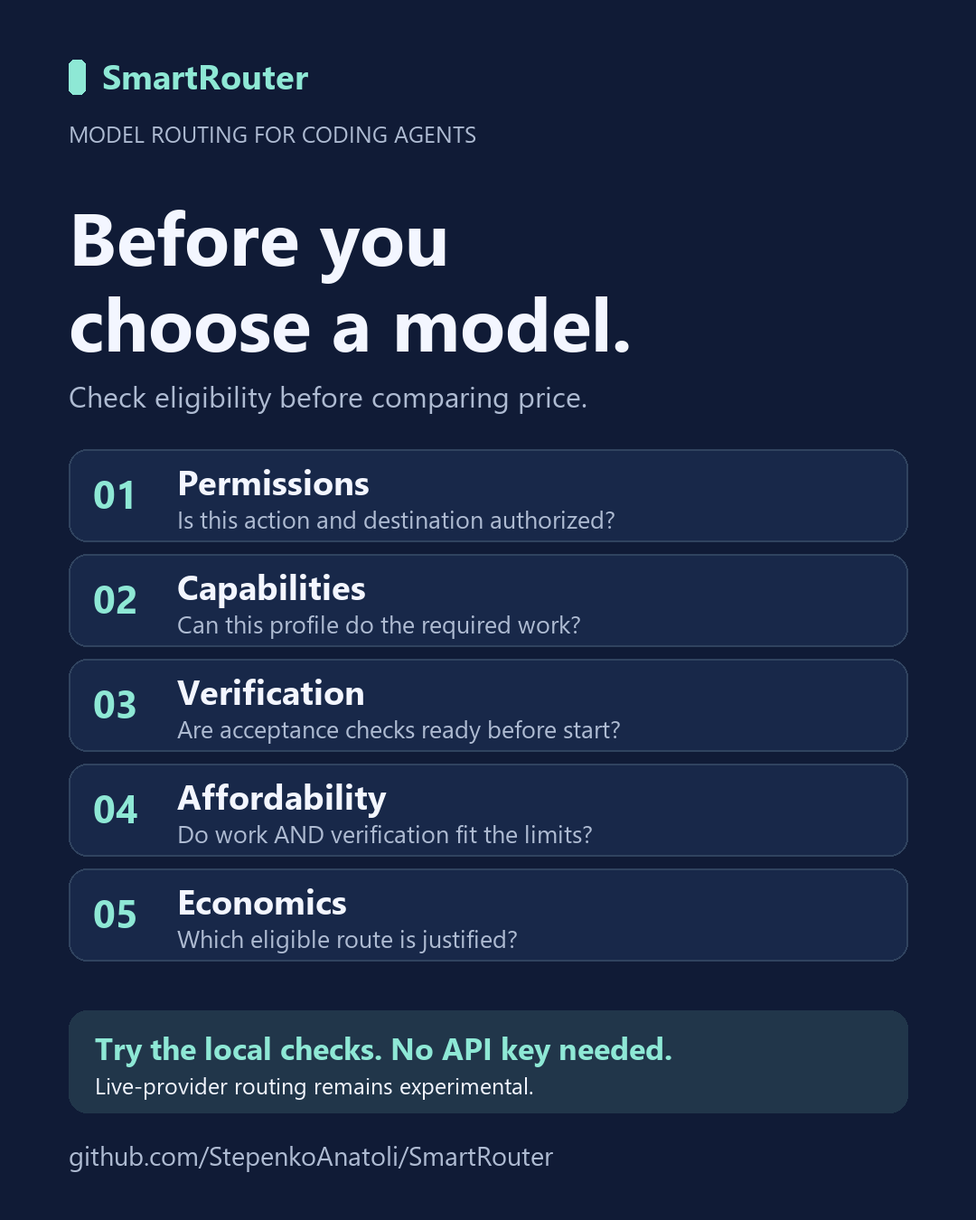
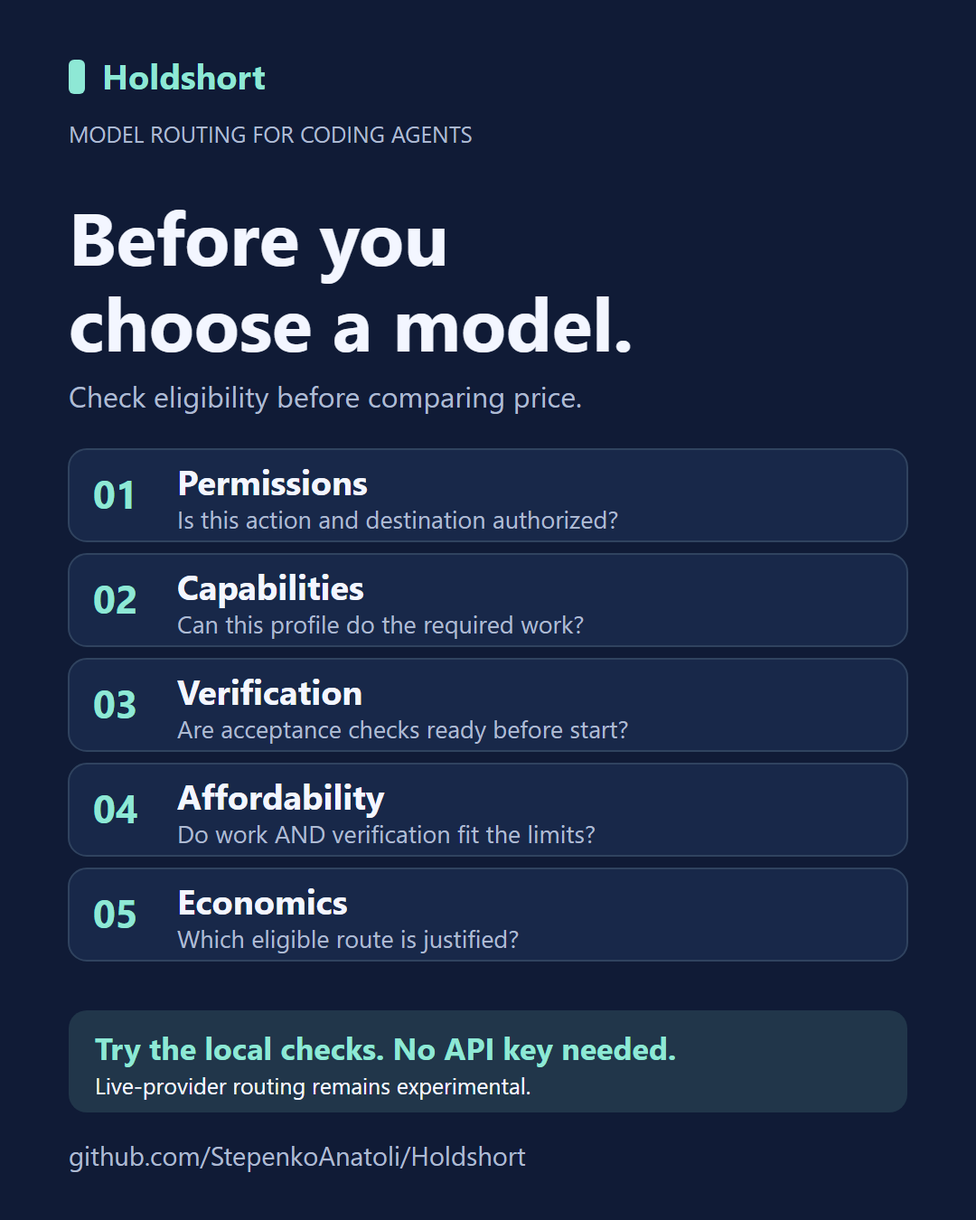
rename follow-up: a missed migration fails loudly, and facts about things that still carry the old name keep it (ADR-0003)
What changed:
- tools/check_credential_hygiene.py and tools/check_custody_acl.py fail closed while ~/.secrets/smart-router
  exists. Before, a machine that had not moved its custody folder was reported clean / N/A while its keys sat
  unchecked. The old folder is detected, never read. Tests C19 and L15.
- hosts/claude-code/route.mjs: validatePolicy refuses a policy after revision 5 that still names its upstream
  block smartrouter, instead of every decision binding holdshort: null. The archived host-policy-1..5 keep the
  old key and still load. New test at the end of route.test.mjs.
- Restored as they were on main, because they name things that exist under the old name: two paths inside
  other projects' URLs (docs/ROUTER_SURVEY.md), the published release asset names (docs/PROJECT_COMPLETION.md,
  docs/HANDOFF_MOONZILA.md) and the zip's contents in the handoff, the copy of the published v1.0.1 release
  body (tools/release/RELEASE_NOTES_v1.0.1.md, byte-identical to main again), two git branch names, a path
  pinned to fbe7bca (route.test.mjs line 2) and a path quoted from a brief (hosts/claude-code/README.md).
- docs/assets/social: the two PNGs re-exported from their renamed SVGs (1080 x 1350); the video cannot be
  re-rendered here, so its README and storyboard say it still shows the old name.
- hosts/README.md and ADR-0003: hosts/claude-code/ "was copied from" MoonAliza's folder and differs since the
[…]

diff --git a/tools/check_credential_hygiene.py b/tools/check_credential_hygiene.py
@@ -82,6 +82,9 @@ BASELINE_DEFAULT = TOOLS / "credential_hygiene_baseline.json"
 GH_CONFIG_ENV = "GH_CONFIG_DIR"
 CREDENTIALS_FILE_NAME = ".git-credentials"
 SECRETS_DIR_NAME = ".secrets/holdshort"
+# ADR-0003: the custody folder's name before the rename. A machine that still has it has not
+# migrated, and its keys would sit outside this check, so its presence fails closed. Never read.
+LEGACY_SECRETS_DIR_NAME = ".secrets/smart-router"
 
 # Helpers that read from a store this check can see. Matching is by the family name a
 # helper is written as (`manager`, a path to git-credential-manager, `!`-commands, ...).
@@ -405,6 +408,16 @@ def resolve_secrets_dir(override: Path | None) -> Path | None:
     return home / SECRETS_DIR_NAME
 
 
+def refuse_legacy_secrets_dir(home: Path | None) -> None:
+    """Fail closed while <home>/.secrets/smart-router exists (ADR-0003). Nothing in it is read."""
+    if home is None:
+        return
+    legacy = home / LEGACY_SECRETS_DIR_NAME
+    if legacy.exists():
+        raise FailClosed(f"legacy custody folder {legacy} is present; move it to "
+                         f"{home / SECRETS_DIR_NAME} (ADR-0003, CHANGELOG migration)")
+
+
 def plaintext_names(secrets_dir: Path | None) -> tuple[list[str], str]:
     """Top-level entry names under the secrets dir. Contents are NEVER read.
 
@@ -611,6 +624,8 @@ def inspect(store_path: Path | None = None, gh_config_override: Path | None = No
     if config is None:
         config = config_entries(git_env())
     secrets_path = secrets_dir if secrets_dir is not None else resolve_secrets_dir(None)
+    if secrets_dir is None:
+        refuse_legacy_secrets_dir(home)
     secret_names, secrets_desc = plaintext_names(secrets_path)
     return (entries, store_desc, store_available, hosts, hosts_desc, creds, malformed,
             config, secret_names, secrets_desc)

diff --git a/tools/test_credential_hygiene.py b/tools/test_credential_hygiene.py
@@ -443,6 +443,27 @@ class CredentialHygiene(unittest.TestCase):
         self.assertEqual(r.returncode, 2, r.stdout + r.stderr)
         self.assertIn("FAIL-CLOSED", r.stderr)
 
+    # C19 ------------------------------------------------------------------
+    def test_c19_legacy_custody_folder_fails_closed_without_being_read(self):
+        # ADR-0003: keys left in the pre-rename folder must not pass as "no secrets dir"
+        fake = "FAKE-LEGACY-KEY-0123456789"
+        with tempfile.TemporaryDirectory() as td:
+            tmp = Path(td)
+            env = env_for(tmp)
+            legacy = tmp / "userhome" / ".secrets" / "smart-router"
+            legacy.mkdir(parents=True)
+            (legacy / "plain.key").write_text(fake, encoding="utf-8")
+            r = run_cli(tmp, env)
+            self.assertEqual(r.returncode, 2, r.stdout + r.stderr)
+            self.assertIn("FAIL-CLOSED", r.stderr)
+            self.assertIn("legacy custody folder", r.stderr)
+            self.assertNotIn(fake, r.stdout + r.stderr, "the legacy folder is detected, never read")
+            # after the CHANGELOG move the same machine is judged on the new folder
+            legacy.rename(legacy.parent / "holdshort")
+            moved = run_cli(tmp, env)
+        self.assertNotIn("legacy custody folder", moved.stdout + moved.stderr)
+        self.assertIn("plain.key", moved.stdout, moved.stdout + moved.stderr)
+
 
 if __name__ == "__main__":
     unittest.main(verbosity=2)

diff --git a/tools/test_custody_acl.py b/tools/test_custody_acl.py
@@ -280,6 +280,26 @@ class CustodyAcl(unittest.TestCase):
             three = run_cli("--acl-json", str(fixture))
         self.assertEqual(three.returncode, 3, three.stdout + three.stderr)
 
+    # L15 ------------------------------------------------------------------
+    def test_l15_legacy_custody_folder_fails_closed_not_na(self):
+        # ADR-0003: a machine that still has .secrets/smart-router has not migrated
+        with tempfile.TemporaryDirectory() as td:
+            secrets = Path(td) / ".secrets"
+            (secrets / "smart-router").mkdir(parents=True)
+            root = secrets / "holdshort"
+            with self.assertRaises(cca.FailClosed):
+                cca.na_reason(root, platform="nt")            # new root absent: not N/A
+            root.mkdir()
+            with self.assertRaises(cca.FailClosed):
+                cca.na_reason(root, platform="nt")            # both present: still refused
+            self.assertIn("N/A", cca.na_reason(root, platform="linux"))
+            r = run_cli("--root", str(root))
+            if os.name == "nt":
+                self.assertEqual(r.returncode, cca.FAIL_CLOSED, r.stdout + r.stderr)
+                self.assertIn("legacy custody folder", r.stderr)
+            (secrets / "smart-router").rmdir()
+            self.assertIsNone(cca.na_reason(root, platform="nt"))
+
 
 if __name__ == "__main__":
     unittest.main(verbosity=2)

diff --git a/tools/check_custody_acl.py b/tools/check_custody_acl.py
@@ -129,9 +129,16 @@ def default_root(env: dict | None = None) -> Path:
 
 
 def na_reason(root: Path, platform: str | None = None) -> str | None:
-    """None = verify now; otherwise the N/A reason. Surface absent is N/A, never a failure."""
+    """None = verify now; otherwise the N/A reason. Surface absent is N/A, never a failure.
+
+    ADR-0003: a pre-rename custody folder (smart-router) beside the root fails closed, present
+    or not: its keys would otherwise sit outside this audit. It is detected, never read."""
     if (platform or os.name) != "nt":
         return "N/A on this platform (the custody tree is a Windows-machine fact)"
+    legacy = root.parent / "smart-router"
+    if legacy.exists():
+        raise FailClosed(f"legacy custody folder {legacy} is present; move it to {root} "
+                         "(ADR-0003, CHANGELOG migration)")
     if not root.is_dir():
         return f"N/A — no custody root at {root} (nothing to verify on this machine)"
     return None

diff --git a/docs/ROUTER_SURVEY.md b/docs/ROUTER_SURVEY.md
@@ -132,7 +132,7 @@ Revision: [`a5452c544d8e5e12b87460eab18428fbe60f3ffa`](https://github.com/BlockR
 
 Revision: [`a2d90c470170acec1a468d066a685b9d14b83a60`](https://github.com/Magma-Devs/smart-router/tree/a2d90c470170acec1a468d066a685b9d14b83a60). Approximately 904 files / 462 discovered tests. This is blockchain RPC routing, not an LLM skill router. Inspected license combines PolyForm Noncommercial and Enterprise terms; commercial reuse requires appropriate authorization.
 
-[attempt_budget_callsite_test.go](https://github.com/Magma-Devs/smart-router/blob/a2d90c470170acec1a468d066a685b9d14b83a60/protocol/rpcholdshort/attempt_budget_callsite_test.go) exercises a real dispatcher with an upstream slower than an internal window but inside the total budget, asserting the caller passes the correct budget. A direct callee test could miss that regression. [eligibility.go](https://github.com/Magma-Devs/smart-router/blob/a2d90c470170acec1a468d066a685b9d14b83a60/protocol/relaypolicy/eligibility.go) is a wrapper around common eligibility, not proof of an LLM semantic selector.
+[attempt_budget_callsite_test.go](https://github.com/Magma-Devs/smart-router/blob/a2d90c470170acec1a468d066a685b9d14b83a60/protocol/rpcsmartrouter/attempt_budget_callsite_test.go) exercises a real dispatcher with an upstream slower than an internal window but inside the total budget, asserting the caller passes the correct budget. A direct callee test could miss that regression. [eligibility.go](https://github.com/Magma-Devs/smart-router/blob/a2d90c470170acec1a468d066a685b9d14b83a60/protocol/relaypolicy/eligibility.go) is a wrapper around common eligibility, not proof of an LLM semantic selector.
 
 **Use:** callsite budget/deadline tests with controlled clocks and adverse timing. **Avoid:** blockchain relay hedging/quorum/transaction fanout as LLM replay policy, irrelevant infrastructure, noncommercial code copying for commercial use.
 
@@ -142,7 +142,7 @@ Revision: [`034daabaac5038bfc5f0a5c54a30df59baaffb3a`](https://github.com/ginson
 
 [Retry design](https://github.com/ginsonko/newapi-smart-router/blob/034daabaac5038bfc5f0a5c54a30df59baaffb3a/parts/algorithms/retry/README.md) separates transport/protocol/business contracts, committed semantic streams, acceptance ambiguity, replay class, deadlines and attempts. [Outcome golden vectors](https://github.com/ginsonko/newapi-smart-router/blob/034daabaac5038bfc5f0a5c54a30df59baaffb3a/parts/conformance/golden-vectors/outcome-v1.json) cover valid tool calls, pseudo-200 errors, committed streams, unknown video acceptance, capacity 429 and side-effecting unknown dispatch. Static vectors are not live success claims.
 
-[planner.go](https://github.com/ginsonko/newapi-smart-router/blob/034daabaac5038bfc5f0a5c54a30df59baaffb3a/core/holdshort/planner.go) exposes no-price/no-candidate/attempt-budget outcomes, capability/replay fingerprints and snapshot/commit rules. [cache_economy.go](https://github.com/ginsonko/newapi-smart-router/blob/034daabaac5038bfc5f0a5c54a30df59baaffb3a/core/holdshort/cache_economy.go) scores only after eligibility with bounded snapshot/horizon/sample/confidence/drift guards; specific namespace/session warm evidence matters, not generic hit-rate optimism. Numeric defaults are not transferable Holdshort tolerances.
+[planner.go](https://github.com/ginsonko/newapi-smart-router/blob/034daabaac5038bfc5f0a5c54a30df59baaffb3a/core/smartrouter/planner.go) exposes no-price/no-candidate/attempt-budget outcomes, capability/replay fingerprints and snapshot/commit rules. [cache_economy.go](https://github.com/ginsonko/newapi-smart-router/blob/034daabaac5038bfc5f0a5c54a30df59baaffb3a/core/smartrouter/cache_economy.go) scores only after eligibility with bounded snapshot/horizon/sample/confidence/drift guards; specific namespace/session warm evidence matters, not generic hit-rate optimism. Numeric defaults are not transferable Holdshort tolerances.
 
 [Route receipt schema](https://github.com/ginsonko/newapi-smart-router/blob/034daabaac5038bfc5f0a5c54a30df59baaffb3a/parts/spec/route-receipt.schema.json) describes versions/attempt/reservation/settlement/reconciliation/operator review. Borrow the conceptual need for a small secret-free receipt, not the gateway or whole schema.
 

diff --git a/docs/PROJECT_COMPLETION.md b/docs/PROJECT_COMPLETION.md
@@ -86,7 +86,7 @@ strict-P02 countersignature is [docs/P02_REVIEWER_DESIGNATION.md](docs/P02_REVIE
 | Tag object SHA | `3aae815b5566e23b91da64df501c1df6a24ad2d2` |
 | GitHub Release id | `408947843` |
 | Release URL | https://github.com/StepenkoAnatoli/Holdshort/releases/tag/v1.0.0-pilot |
-| Release asset | `Holdshort-v1.0.0-pilot.zip` — 90,260 bytes, 31 entries, SHA-1 `920007b8af24a3fc02430257fbe39ad37d5f47ec` |
+| Release asset | `SmartRouter-v1.0.0-pilot.zip` — 90,260 bytes, 31 entries, SHA-1 `920007b8af24a3fc02430257fbe39ad37d5f47ec` |
 | Release notes body length | 2215 characters (contents table + verification basis + gates-preserved section) |
 | Draft / prerelease | `false` / `false` (a real release, publicly visible) |
 | In-repo content commits after the tag | `23a9ef0` (packet), `2f4b141` (completion), `1d3b9b6` (zip), `55713f3` (prices verified), `badeb03` (audit), `c0337c8` (arm matrix / walkthrough), `8a085a6` (row-4 pre-fill), `8526af7` (reviewer record), `8a2c08c` (rate re-verify), `6d46481` (record freshness) — **none change skill semantics**; the released artefacts' behavior is what was tagged. |
@@ -101,7 +101,7 @@ strict-P02 countersignature is [docs/P02_REVIEWER_DESIGNATION.md](docs/P02_REVIE
 | Tag object SHA | `fbe2a4c7ec4844fc29668d294b75206b0d2e36c4` |
 | GitHub Release id | `409546770` |
 | Release URL | https://github.com/StepenkoAnatoli/Holdshort/releases/tag/v1.0.1 |
-| Release asset | `Holdshort-v1.0.1.zip` — 217,751 bytes, 75 entries, SHA-1 `aafcc9288261e9691ec7b9ae26120f35ba9d29b8` (historically committed in `cdcec77`, merged via PR #14 `9508c97`; blob id `b988f89f58f274c540b964d28c096c13726af15a`) |
+| Release asset | `SmartRouter-v1.0.1.zip` — 217,751 bytes, 75 entries, SHA-1 `aafcc9288261e9691ec7b9ae26120f35ba9d29b8` (historically committed in `cdcec77`, merged via PR #14 `9508c97`; blob id `b988f89f58f274c540b964d28c096c13726af15a`) |
 | Release notes body length | 5,999 bytes / 5,960 characters (base-release pointer + enforcement-hardening story + four-protection-layer annex; same content as [tools/release/RELEASE_NOTES_v1.0.1.md](../tools/release/RELEASE_NOTES_v1.0.1.md), modulo EOL) |
 | Draft / prerelease | `false` / `false` (a real release, publicly visible) |
 | In-repo content commits after the tag | `abe79d8` (strict-protection merge test), `03d629f` (PR #15 merge), `7af6975` (revert), `b143654` (PR #16 merge) — **test-and-revert cycle only, zero net content change** (README byte-identical pre/post); skills semantics unchanged. Stale-base refusal cycle: `edc782f` (marker, PR #19 head — `README.md` +2), `35d36ca` (refresh — `main` @ `931d4ad` merged into the head), `3e2c283` (PR #19 merge), `ef2aff1` (revert, PR #21), `c62c487` (PR #21 merge) — **test-and-revert cycle only, zero net content change**: `main`'s tree is identical at `931d4ad` and `c62c487` (`e486c57fd2dc`), so the cycle left nothing behind. Refusal evidence, as recorded in PR #21's body at the time: the head was `clean` with a green `regression-gate` at `40debd7`; when PR #20 moved `main` to `931d4ad` the PR flipped to `behind` and the merge API refused with **405 `Required status check "regression-gate" is expected`** despite that green check; `update-branch` refreshed the head to `35d36ca`, run `38166333242` re-ran the gate (success), and the merge was then accepted. The tag's packaging commit `cdcec77` itself is the point-in-time snapshot of record. Apart from that cycle, post-`b143654` merges are docs-only (PR #17 strict-provenance/release docs, PR #18 onboarding-proof evidence row, PR #20 post-tag provenance note, PR #22 Moonzila advisory note, PR #23 onboarding-proof run list); skills semantics remain unchanged since the tag. |

diff --git a/docs/adr/0003-rename-to-holdshort.md b/docs/adr/0003-rename-to-holdshort.md
@@ -32,7 +32,10 @@ files, change all files that says: smart router into Holdshort as suggested".
    `HOLDSHORT_BRIEF.json`, the custody folder is `~/.secrets/holdshort`, the skills are `holdshort`,
    `holdshort-review` and `holdshort-eval-prep`, the host policy's upstream block and the decision field
    written by `hosts/claude-code/route.mjs` are `holdshort`, and the canary's User-Agent and temporary
-   prefixes use the new name. Nothing reads the old names any more.
+   prefixes use the new name. Nothing reads the old names any more. Two checks make a missed migration loud
+   instead of silent; they detect the old names and never read through them: the custody checks
+   (`tools/check_credential_hygiene.py`, `tools/check_custody_acl.py`) fail closed while `~/.secrets/smart-router`
+   exists, and `route.mjs` refuses a policy after revision 5 that still names its upstream block `smartrouter`.
 4. **Kept as written**, because changing them would make a record false or point at something that does
    not exist:
    - `hosts/claude-code/trace/**`: the host's real ledger (decisions with Brief fingerprints, usage,
@@ -44,8 +47,17 @@ files, change all files that says: smart router into Holdshort as suggested".
      evidence refers to it.
    - Other projects' names: `BJFinancial/Smart-router` (and `src/smart_router/` inside its URLs),
      `beettlle/pi-smart-router`, `Magma-Devs/smart-router`, `ginsonko/newapi-smart-router`.
-   - MoonAliza's folder `docs/orchestration/smartrouter/`. It is the host's real path, and
-     `hosts/claude-code/` is a copy of it.
+   - MoonAliza's folder `docs/orchestration/smartrouter/`. It is the host's real path;
+     `hosts/claude-code/` was copied from it and differs from it since this rename.
+   - Facts about things that exist under the old name outside this tree: paths inside other projects' URLs
+     (`protocol/rpcsmartrouter/`, `core/smartrouter/`), the published release assets
+     (`SmartRouter-v1.0.0-pilot.zip`, `SmartRouter-v1.0.1.zip`) and the zip's contents as the MoonAliza handoff
+     names them, the copy of the published v1.0.1 release body (`tools/release/RELEASE_NOTES_v1.0.1.md`), git
+     branch names (`docs/corrected-smartrouter-development-plan`, `skills/smart-router-v1`), paths pinned to a
+     commit before the rename (`tests/smart_router_decisions.py` at `fbe7bca`) and a path quoted from a brief
+     (`/home/user/smartrouter`).
+   - The social video `docs/assets/social/local-first-look.mp4` until it is re-rendered; the two social PNGs
+     were re-exported from their renamed sources.
    - One verbatim chat quote in `hosts/claude-code/README.md` ("focus on smartrouter for now").
 5. The GitHub repository is renamed `StepenkoAnatoli/Holdshort` when this change merges. GitHub
    redirects the old URLs until a new repository takes the old name.

diff --git a/tools/release/RELEASE_NOTES_v1.0.1.md b/tools/release/RELEASE_NOTES_v1.0.1.md
@@ -1,10 +1,10 @@
-# RELEASE_NOTES.md — Holdshort v1.0.1 (enforcement & docs refresh)
+# RELEASE_NOTES.md — SmartRouter v1.0.1 (enforcement & docs refresh)
 
-> **Base release:** [`v1.0.0-pilot`](https://github.com/StepenkoAnatoli/Holdshort/releases/tag/v1.0.0-pilot)
+> **Base release:** [`v1.0.0-pilot`](https://github.com/StepenkoAnatoli/SmartRouter/releases/tag/v1.0.0-pilot)
 > at commit `b6e04fd525fa886b07d149ab5a7f88da3f7b7c89`. This revision supersedes it on `main`
 > (tip: `f4d1522`) with enforcement, testing, and documentation upgrades. **No change to the
 > three executable skills' routing semantics** — the canonical policy content of
-> `skills/holdshort{,-review,-eval-prep}` is byte-identical in intent; what changed is
+> `skills/smart-router{,-review,-eval-prep}` is byte-identical in intent; what changed is
 > everything that enforces and proves the pipeline around them.
 
 ## What's new since v1.0.0-pilot
@@ -62,7 +62,7 @@
   `hook_wiring`, `validate_skills`, all test suites, `check_secrets` fail-closed).
 - Packaged-tree spot-checks executed in the staging directory before zipping:
   - `python tools/validate_skills.py` → exit 0 ("3 skills validated")
-  - `python tests/holdshort_decisions.py` → exit 0 (79 assertions / 52 fixtures)
+  - `python tests/smart_router_decisions.py` → exit 0 (79 assertions / 52 fixtures)
   - `python tools/check_secrets.py` → exit 0 (0 hits)
 - Asset built from the parity tree `f4d1522` (local main == origin/main at packaging time).
 - **Ships-nothing exclusions verified in the zip itself**: no `.env`, no ledger files, no
@@ -74,9 +74,9 @@
 | --- | --- |
 | `README.md` | Current phase-state ledger + the four-protection-layers story |
 | `CHANGELOG.md` | Chronological enforcement hardening narrative (hash-referenced) |
-| `skills/holdshort/` | Canonical five-gate routing policy (v1.0.0, unchanged semantics) |
-| `skills/holdshort-review/` | Blocker-focused reviewer procedure (v1.0.0) |
-| `skills/holdshort-eval-prep/` | Preregistration prep, no live spend (v1.0.0) |
+| `skills/smart-router/` | Canonical five-gate routing policy (v1.0.0, unchanged semantics) |
+| `skills/smart-router-review/` | Blocker-focused reviewer procedure (v1.0.0) |
+| `skills/smart-router-eval-prep/` | Preregistration prep, no live spend (v1.0.0) |
 | `tools/` | Full enforcement + dispatch + close toolchain (incl. new `check_hook_wiring.py`) |
 | `tests/`, `fixture_checks.py` | 79-assertion decision suite + smoke harness |
 | `docs/GO_LIVE_RUNBOOK.md` | Operational runbook for the first live pilot session |

diff --git a/CHANGELOG.md b/CHANGELOG.md
@@ -9,15 +9,23 @@
   - replace installed copies of the skills `smart-router`, `smart-router-review` and `smart-router-eval-prep` with
     `holdshort`, `holdshort-review` and `holdshort-eval-prep` (`defers-to: holdshort`);
   - hosts write the worker Brief as `HOLDSHORT_BRIEF.json`, not `SMARTROUTER_BRIEF.json`;
-  - move the credential custody folder `~/.secrets/smart-router` to `~/.secrets/holdshort`;
+  - move the credential custody folder `~/.secrets/smart-router` to `~/.secrets/holdshort`; until it moves,
+    `tools/check_credential_hygiene.py` and `tools/check_custody_acl.py` fail closed instead of reporting clean;
   - in a Claude Code host policy, rename the upstream block `smartrouter` to `holdshort`; new decision records carry
-    `holdshort`;
+    `holdshort`, and `route.mjs` refuses a policy after revision 5 that still carries `smartrouter`;
+  - decide again for any decision not yet dispatched: the Brief's text changed, so the pre-dispatch check refuses the
+    fingerprint recorded before the rename;
+  - delete `SMARTROUTER_BRIEF.json` from a worker worktree spawned before the rename before cleaning it up (cleanup
+    removes only `HOLDSHORT_BRIEF.json` and refuses a worktree with untracked files);
   - run the decision suite as `python tests/holdshort_decisions.py`.
 
   Kept as written: the host ledger `hosts/claude-code/trace/**`, `docs/evidence/**`, the frozen pool id
   `smartrouter-prospective-v1`, other projects' names (`BJFinancial/Smart-router`, `beettlle/pi-smart-router`,
-  `Magma-Devs/smart-router`, `ginsonko/newapi-smart-router`), MoonAliza's folder `docs/orchestration/smartrouter/` and
-  one verbatim chat quote.
+  `Magma-Devs/smart-router`, `ginsonko/newapi-smart-router`) and paths inside their URLs, MoonAliza's folder
+  `docs/orchestration/smartrouter/`, facts about things that still carry the old name (the published release asset
+  names and the zip's contents, the copy of the published v1.0.1 release notes, git branch names, paths pinned to a
+  commit before the rename, a path quoted from a brief) and one verbatim chat quote. The social PNGs were re-exported;
+  the social video still shows the old name until it is re-rendered.
 - **The calibration gate checks run on a Windows host** (`tools/test_calibration_kit.py` and the tests of the evidence
   check and the qualification table). On Windows 17 of the kit's 79 tests failed, so the pre-commit hook refused every
   commit there: it read files in the locale's encoding, ran a bare `python3`, wrote a Windows path into a git config

diff --git a/docs/HANDOFF_MOONZILA.md b/docs/HANDOFF_MOONZILA.md
@@ -6,9 +6,12 @@
 
 ## Release
 
+> The project was renamed Holdshort on 2026-10-20 (ADR-0003). This release and its zip keep the
+> old names: the asset file, the `smart-router` skill and `tests/smart_router_decisions.py`.
+
 - **Tag:** `v1.0.0-pilot` (annotated, at `b6e04fd`)
 - **Release page:** https://github.com/StepenkoAnatoli/Holdshort/releases/tag/v1.0.0-pilot
-- **Asset:** https://github.com/StepenkoAnatoli/Holdshort/releases/download/v1.0.0-pilot/Holdshort-v1.0.0-pilot.zip
+- **Asset:** https://github.com/StepenkoAnatoli/Holdshort/releases/download/v1.0.0-pilot/SmartRouter-v1.0.0-pilot.zip
   (90,260 bytes, 31 entries, MIT; contains the validated `skills/` tree, the 79-assertion decision
   suite, the sidecar helper, the hardened validator, and all canonical docs)
 - **Quickstart verified from a clean unpack** — all four commands exit 0 (see `RELEASE_NOTES.md` in the zip)
@@ -18,7 +21,7 @@
 - `docs/MOONZILA_ADVISORY_UI.md` — the Phase 6 "first advisory UI" design note (stored-preview
   display vs. generate-path separation, plan §13). It needs **your approval** before any Moonzila
   implementation work starts.
-- The `holdshort` skill — advisory-only by design; it **recommends** route decisions but never
+- The `smart-router` skill (now `holdshort`) — advisory-only by design; it **recommends** route decisions but never
   performs dispatch, spend, or model switching itself. All performative enforcement is Moonzila-side.
 
 ## Gate you own (per plan §13/§16 — not started in this project by design)
@@ -32,7 +35,7 @@
 
 The release zip contains everything needed to validate the skill tree on the Moonzila host
 without any additional repo work — `tools/validate_skills.py` (supports `--strict`) and
-`tests/holdshort_decisions.py` (79 assertions / 52 fixture IDs, exit 0 expected) are both
+`tests/smart_router_decisions.py` (79 assertions / 52 fixture IDs, exit 0 expected) are both
 pre-run and reported clean at `b6e04fd`.
 
 ## Contact / provenance

diff --git a/docs/DEVELOPMENT_PLAN.md b/docs/DEVELOPMENT_PLAN.md
@@ -399,7 +399,7 @@ Phase 1 closes only after independent `Approve` with no unresolved blocker or mi
 
 Closure is artifact-specific. `Specification corrected` means the rule/fixture now addresses the identified ambiguity and author checks were run; it does **not** mean non-author approval or future implementation acceptance. Any discovered remaining contradiction is a new blocking finding for the affected phase; do not assert exhaustive proof from presence/phrase checks. Publish unresolved external/future prerequisites explicitly, never disguise them as closed.
 
-Current delivery amends existing draft PR #2 on `docs/corrected-holdshort-development-plan`, preserving observed parent/concurrent changes, verifying expected head before publication and using non-force branch update. No new PR/main update/merge. Upload only owned planning documents and remove only the prior additions made in this thread; credential in memory/header only, never in files/logs/URLs. Re-read PR/head/diff and verify remote bytes, changed-file set, draft/open/unmerged status and unchanged main after publishing.
+Current delivery amends existing draft PR #2 on `docs/corrected-smartrouter-development-plan`, preserving observed parent/concurrent changes, verifying expected head before publication and using non-force branch update. No new PR/main update/merge. Upload only owned planning documents and remove only the prior additions made in this thread; credential in memory/header only, never in files/logs/URLs. Re-read PR/head/diff and verify remote bytes, changed-file set, draft/open/unmerged status and unchanged main after publishing.
 
 Maintenance: consumer-pinned reviewed versions; no silent live downloads; changelog for policy changes; rerun scenario reviews and relevant runtime checks; freshness/provenance for capabilities/prices; respect retention/licensing. Users can disable routing and return to **eligible** manual selection.
 

diff --git a/hosts/claude-code/README.md b/hosts/claude-code/README.md
@@ -1203,7 +1203,7 @@ recorded whole at its outcome, so such a pair cannot say what they cost.
 
 Found while building revision 6 (unit sr-policy-6). The lead decides.
 
-1. **The proposal was not at the path the brief names.** `/home/user/holdshort` is still checked out at `5bd473a`
+1. **The proposal was not at the path the brief names.** `/home/user/smartrouter` is still checked out at `5bd473a`
    (PR #98), where `docs/proposals/calibration-first-onboarding.md` does not exist. It was read from Holdshort main as
    merged (`7f7fc75`, which contains PR #102's merge `bb3fa6c`), through the read-only main worktree of that repository
    (`git show origin/main:` gives the same bytes); nothing was copied but the passages this README quotes.
@@ -1246,7 +1246,7 @@ Found while building revision 6 (unit sr-policy-6). The lead decides.
 
 Found while building revision 5 (unit sr-policy-5). The lead decides.
 
-1. **The proposal was not at the path the brief names.** `/home/user/holdshort` is checked out at `5bd473a` (PR #98),
+1. **The proposal was not at the path the brief names.** `/home/user/smartrouter` is checked out at `5bd473a` (PR #98),
    where `docs/proposals/difficulty-tiers.md` does not exist. The proposal was read from Holdshort main as merged
    (`7f7fc75`, which contains PR #100, `2e30291`), with `git show` in that same repository; nothing was copied but the
    passages the brief asks to quote.
